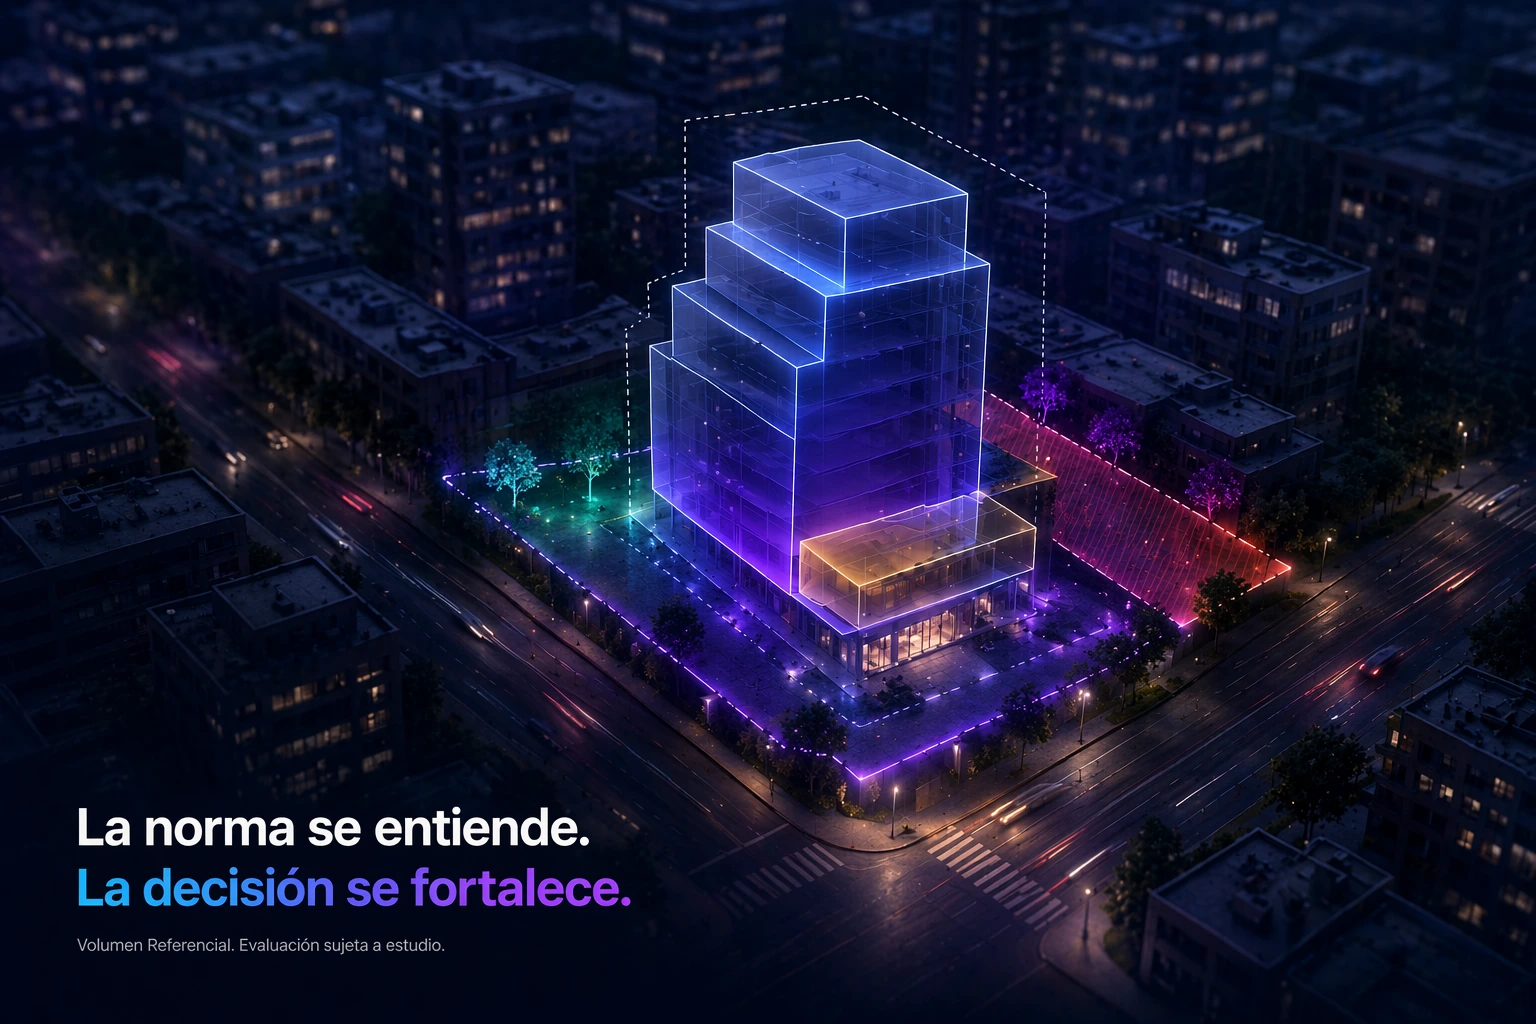
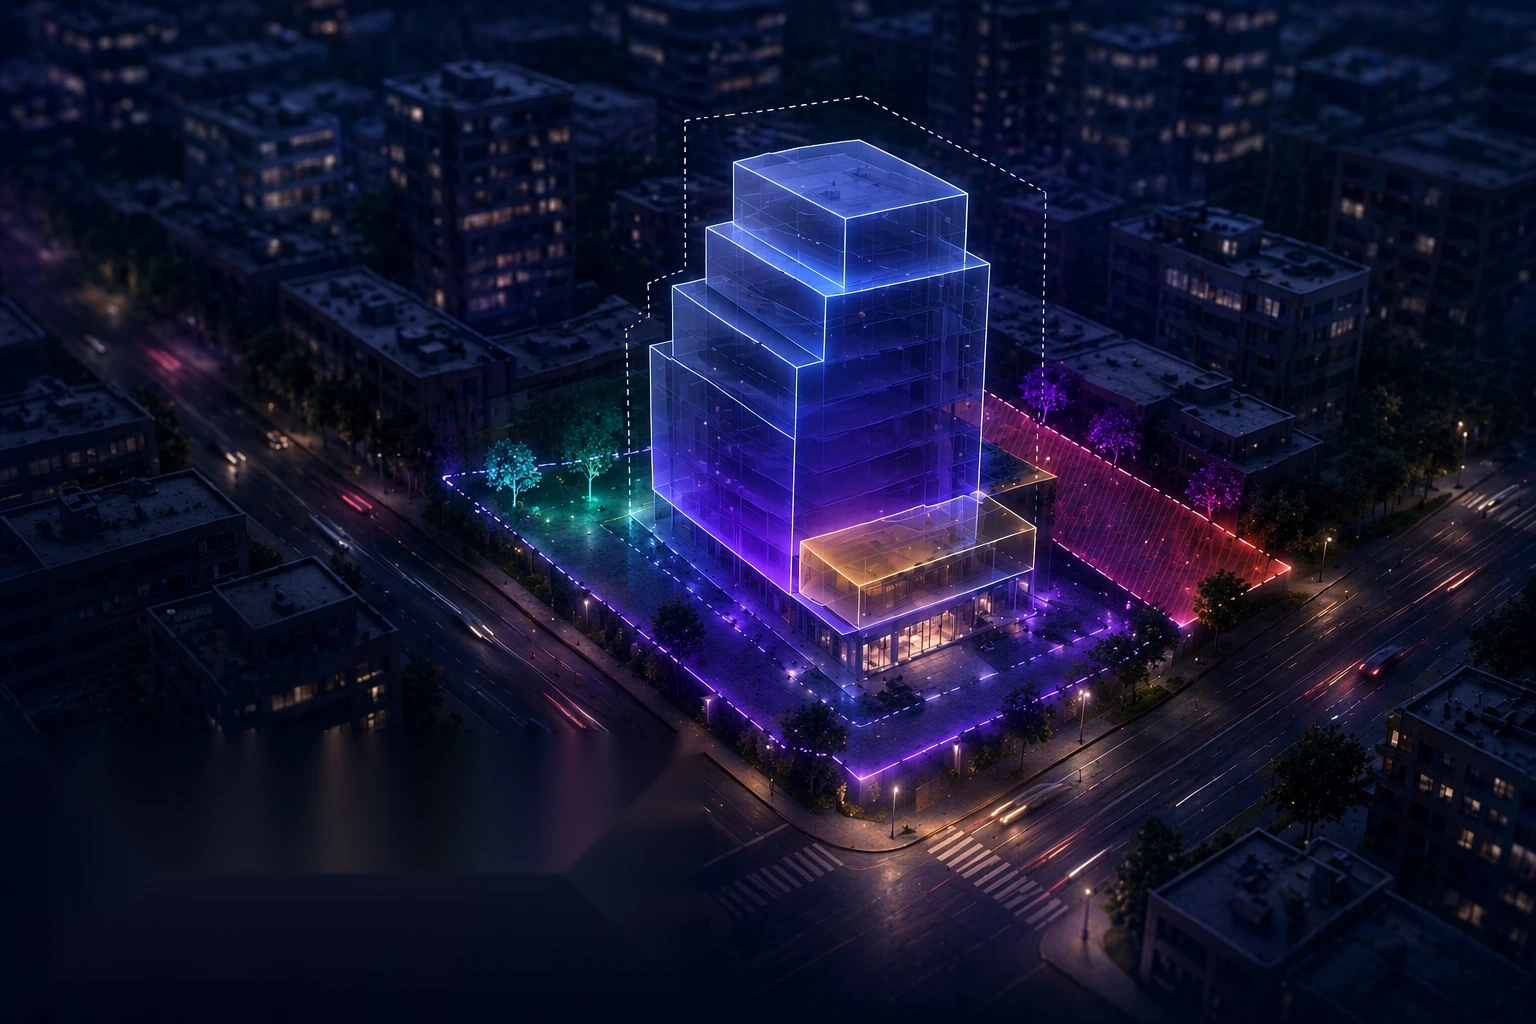
Add files via upload

Changed region(s): [[0.0312, 0.7188, 0.4688, 0.9375], [0.4375, 0.7188, 0.4688, 0.75]]

diff --git a/css/style.css b/css/style.css
@@ -1269,3 +1269,57 @@ p{margin:0 0 14px}
       url('/assets/images/hero-estudio-cabida-santiago.webp') 145% 12%/120% auto no-repeat;
   }
 }
+
+
+/* --- HERO MOBILE POSITIONING FIX v7: place building to the right of the H1 --- */
+@media (max-width:640px){
+  .heroFlagship::after,
+  .heroFlagship--compact::after{
+    background:
+      radial-gradient(360px 240px at 84% 16%, rgba(110,86,255,.16) 0%, rgba(110,86,255,.08) 34%, transparent 72%),
+      radial-gradient(220px 190px at 82% 14%, rgba(78,162,255,.10) 0%, transparent 74%),
+      linear-gradient(180deg, rgba(7,17,31,.94) 0%, rgba(7,17,31,.74) 30%, rgba(7,17,31,.60) 58%, rgba(7,17,31,.52) 100%),
+      linear-gradient(90deg, rgba(7,17,31,.97) 0%, rgba(7,17,31,.92) 30%, rgba(7,17,31,.68) 54%, rgba(7,17,31,.24) 80%, rgba(7,17,31,.10) 100%),
+      url('/assets/images/hero-estudio-cabida-santiago.webp') 126% 20%/152% auto no-repeat;
+    opacity:.98;
+  }
+
+  .heroFlagship::before,
+  .heroFlagship--compact::before{
+    content:"";
+    position:absolute;
+    inset:auto 10px auto auto;
+    top:122px;
+    width:min(46vw, 178px);
+    height:min(78vw, 332px);
+    z-index:1;
+    pointer-events:none;
+    opacity:.98;
+    border-radius:24px;
+    background:
+      linear-gradient(180deg, rgba(7,17,31,.04) 0%, rgba(7,17,31,.16) 100%),
+      url('/assets/images/hero-estudio-cabida-santiago-mobile.webp') center top/cover no-repeat;
+    box-shadow:none;
+    mask-image:linear-gradient(180deg, rgba(0,0,0,.98) 0%, rgba(0,0,0,.94) 82%, rgba(0,0,0,.16) 100%);
+    -webkit-mask-image:linear-gradient(180deg, rgba(0,0,0,.98) 0%, rgba(0,0,0,.94) 82%, rgba(0,0,0,.16) 100%);
+  }
+
+  .heroFlagship__copy h1{
+    max-width:7.6ch;
+  }
+
+  .heroFlagship__copy .lead{
+    max-width:19ch;
+  }
+}
+
+@media (max-width:430px){
+  .heroFlagship::before,
+  .heroFlagship--compact::before{
+    top:116px;
+    right:8px;
+    width:44vw;
+    height:78vw;
+    border-radius:22px;
+  }
+}

diff --git a/index.html b/index.html
@@ -3,7 +3,7 @@
 <head>
   <meta charset="UTF-8" />
   <meta name="viewport" content="width=device-width, initial-scale=1.0" />
-  <title>Saber si un terreno conviene antes de invertir | estudiodecabida.cl</title>
+  <title>Sabe si un terreno conviene antes de invertir | estudiodecabida.cl</title>
   <meta name="description" content="Analizamos CIP, normativa urbana y restricciones reales para decirte con claridad si conviene avanzar, renegociar o descartar." />
   <meta name="keywords" content="estudio de cabida, estudio de cabida chile, evaluar terreno antes de comprar, factibilidad normativa terreno, cip terreno, qué puedo construir en un terreno" />
   <meta name="robots" content="index, follow, max-image-preview:large" />
